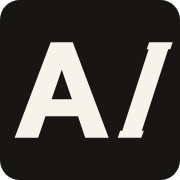
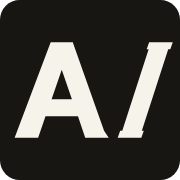
Restore the subtle foot on the AlphaWink mark

diff --git a/zh/about/index.html b/zh/about/index.html
@@ -7,10 +7,10 @@
   <meta name="description" content="我做具身智能数据平台和 AI 基础设施，把多模态机器人数据处理成可校验、可复用的数据集。">
   <meta name="theme-color" content="#f6f3ea">
   <title>关于 / AlphaWink</title>
-  <link rel="icon" href="../../favicon.ico?v=f2848a205f" sizes="16x16 32x32 48x48" type="image/x-icon">
-  <link rel="icon" href="../../favicon-32x32.png?v=fba32d4bbd" sizes="32x32" type="image/png">
-  <link rel="icon" href="../../favicon-96x96.png?v=820867a735" sizes="96x96" type="image/png">
-  <link rel="apple-touch-icon" href="../../apple-touch-icon.png?v=c74aa64415" sizes="180x180">
+  <link rel="icon" href="../../favicon.ico?v=c063c9c2bd" sizes="16x16 32x32 48x48" type="image/x-icon">
+  <link rel="icon" href="../../favicon-32x32.png?v=a73ccec246" sizes="32x32" type="image/png">
+  <link rel="icon" href="../../favicon-96x96.png?v=4ce4235b61" sizes="96x96" type="image/png">
+  <link rel="apple-touch-icon" href="../../apple-touch-icon.png?v=d38a52b22c" sizes="180x180">
   <link rel="stylesheet" href="../../assets/site.css?v=e340d7fcd6">
   <link rel="alternate" hreflang="en" href="../../about/">
 </head>
@@ -18,7 +18,7 @@
   <a class="skip" href="#main">跳到正文</a>
   <header class="bar wrap">
     <a class="brand" href="../../zh/" aria-label="AlphaWink">
-      <img class="brand-mark" src="../../favicon.svg?v=4a9029fe10" alt="" width="28" height="28">
+      <img class="brand-mark" src="../../favicon.svg?v=defe0f83fc" alt="" width="28" height="28">
       <span class="brand-name">AlphaWink</span>
     </a>
     <nav aria-label="网站导航">

diff --git a/about/index.html b/about/index.html
@@ -7,10 +7,10 @@
   <meta name="description" content="I build data platforms for embodied AI, including the workflows that turn multimodal robot data into datasets that teams can validate and reuse.">
   <meta name="theme-color" content="#f6f3ea">
   <title>About / AlphaWink</title>
-  <link rel="icon" href="../favicon.ico?v=f2848a205f" sizes="16x16 32x32 48x48" type="image/x-icon">
-  <link rel="icon" href="../favicon-32x32.png?v=fba32d4bbd" sizes="32x32" type="image/png">
-  <link rel="icon" href="../favicon-96x96.png?v=820867a735" sizes="96x96" type="image/png">
-  <link rel="apple-touch-icon" href="../apple-touch-icon.png?v=c74aa64415" sizes="180x180">
+  <link rel="icon" href="../favicon.ico?v=c063c9c2bd" sizes="16x16 32x32 48x48" type="image/x-icon">
+  <link rel="icon" href="../favicon-32x32.png?v=a73ccec246" sizes="32x32" type="image/png">
+  <link rel="icon" href="../favicon-96x96.png?v=4ce4235b61" sizes="96x96" type="image/png">
+  <link rel="apple-touch-icon" href="../apple-touch-icon.png?v=d38a52b22c" sizes="180x180">
   <link rel="stylesheet" href="../assets/site.css?v=e340d7fcd6">
   <link rel="alternate" hreflang="zh-Hans" href="../zh/about/">
 </head>
@@ -18,7 +18,7 @@
   <a class="skip" href="#main">Skip to content</a>
   <header class="bar wrap">
     <a class="brand" href="../" aria-label="AlphaWink">
-      <img class="brand-mark" src="../favicon.svg?v=4a9029fe10" alt="" width="28" height="28">
+      <img class="brand-mark" src="../favicon.svg?v=defe0f83fc" alt="" width="28" height="28">
       <span class="brand-name">AlphaWink</span>
     </a>
     <nav aria-label="Site navigation">

diff --git a/zh/products/index.html b/zh/products/index.html
@@ -7,10 +7,10 @@
   <meta name="description" content="AlephTX 模拟策略在市场中可能如何成交。Oasis Agent 记录决策过程，并检查执行边界。">
   <meta name="theme-color" content="#f6f3ea">
   <title>产品 / AlphaWink</title>
-  <link rel="icon" href="../../favicon.ico?v=f2848a205f" sizes="16x16 32x32 48x48" type="image/x-icon">
-  <link rel="icon" href="../../favicon-32x32.png?v=fba32d4bbd" sizes="32x32" type="image/png">
-  <link rel="icon" href="../../favicon-96x96.png?v=820867a735" sizes="96x96" type="image/png">
-  <link rel="apple-touch-icon" href="../../apple-touch-icon.png?v=c74aa64415" sizes="180x180">
+  <link rel="icon" href="../../favicon.ico?v=c063c9c2bd" sizes="16x16 32x32 48x48" type="image/x-icon">
+  <link rel="icon" href="../../favicon-32x32.png?v=a73ccec246" sizes="32x32" type="image/png">
+  <link rel="icon" href="../../favicon-96x96.png?v=4ce4235b61" sizes="96x96" type="image/png">
+  <link rel="apple-touch-icon" href="../../apple-touch-icon.png?v=d38a52b22c" sizes="180x180">
   <link rel="stylesheet" href="../../assets/site.css?v=e340d7fcd6">
   <link rel="alternate" hreflang="en" href="../../products/">
 </head>
@@ -18,7 +18,7 @@
   <a class="skip" href="#main">跳到正文</a>
   <header class="bar wrap">
     <a class="brand" href="../../zh/" aria-label="AlphaWink">
-      <img class="brand-mark" src="../../favicon.svg?v=4a9029fe10" alt="" width="28" height="28">
+      <img class="brand-mark" src="../../favicon.svg?v=defe0f83fc" alt="" width="28" height="28">
       <span class="brand-name">AlphaWink</span>
     </a>
     <nav aria-label="网站导航">

diff --git a/products/index.html b/products/index.html
@@ -7,10 +7,10 @@
   <meta name="description" content="AlephTX models how an idea might execute. Oasis Agent records how decisions were made and checks the limits for execution.">
   <meta name="theme-color" content="#f6f3ea">
   <title>Products / AlphaWink</title>
-  <link rel="icon" href="../favicon.ico?v=f2848a205f" sizes="16x16 32x32 48x48" type="image/x-icon">
-  <link rel="icon" href="../favicon-32x32.png?v=fba32d4bbd" sizes="32x32" type="image/png">
-  <link rel="icon" href="../favicon-96x96.png?v=820867a735" sizes="96x96" type="image/png">
-  <link rel="apple-touch-icon" href="../apple-touch-icon.png?v=c74aa64415" sizes="180x180">
+  <link rel="icon" href="../favicon.ico?v=c063c9c2bd" sizes="16x16 32x32 48x48" type="image/x-icon">
+  <link rel="icon" href="../favicon-32x32.png?v=a73ccec246" sizes="32x32" type="image/png">
+  <link rel="icon" href="../favicon-96x96.png?v=4ce4235b61" sizes="96x96" type="image/png">
+  <link rel="apple-touch-icon" href="../apple-touch-icon.png?v=d38a52b22c" sizes="180x180">
   <link rel="stylesheet" href="../assets/site.css?v=e340d7fcd6">
   <link rel="alternate" hreflang="zh-Hans" href="../zh/products/">
 </head>
@@ -18,7 +18,7 @@
   <a class="skip" href="#main">Skip to content</a>
   <header class="bar wrap">
     <a class="brand" href="../" aria-label="AlphaWink">
-      <img class="brand-mark" src="../favicon.svg?v=4a9029fe10" alt="" width="28" height="28">
+      <img class="brand-mark" src="../favicon.svg?v=defe0f83fc" alt="" width="28" height="28">
       <span class="brand-name">AlphaWink</span>
     </a>
     <nav aria-label="Site navigation">

diff --git a/index.html b/index.html
@@ -7,10 +7,10 @@
   <meta name="description" content="We study market opportunities with recorded data and simulated trades.">
   <meta name="theme-color" content="#f6f3ea">
   <title>Home / AlphaWink</title>
-  <link rel="icon" href="./favicon.ico?v=f2848a205f" sizes="16x16 32x32 48x48" type="image/x-icon">
-  <link rel="icon" href="./favicon-32x32.png?v=fba32d4bbd" sizes="32x32" type="image/png">
-  <link rel="icon" href="./favicon-96x96.png?v=820867a735" sizes="96x96" type="image/png">
-  <link rel="apple-touch-icon" href="./apple-touch-icon.png?v=c74aa64415" sizes="180x180">
+  <link rel="icon" href="./favicon.ico?v=c063c9c2bd" sizes="16x16 32x32 48x48" type="image/x-icon">
+  <link rel="icon" href="./favicon-32x32.png?v=a73ccec246" sizes="32x32" type="image/png">
+  <link rel="icon" href="./favicon-96x96.png?v=4ce4235b61" sizes="96x96" type="image/png">
+  <link rel="apple-touch-icon" href="./apple-touch-icon.png?v=d38a52b22c" sizes="180x180">
   <link rel="stylesheet" href="./assets/site.css?v=e340d7fcd6">
   <link rel="alternate" hreflang="zh-Hans" href="./zh/">
 </head>
@@ -18,7 +18,7 @@
   <a class="skip" href="#main">Skip to content</a>
   <header class="bar wrap">
     <a class="brand" href="./" aria-label="AlphaWink">
-      <img class="brand-mark" src="./favicon.svg?v=4a9029fe10" alt="" width="28" height="28">
+      <img class="brand-mark" src="./favicon.svg?v=defe0f83fc" alt="" width="28" height="28">
       <span class="brand-name">AlphaWink</span>
     </a>
     <nav aria-label="Site navigation">

diff --git a/zh/index.html b/zh/index.html
@@ -7,10 +7,10 @@
   <meta name="description" content="从盘口、成交与风险出发，研究市场机会。">
   <meta name="theme-color" content="#f6f3ea">
   <title>首页 / AlphaWink</title>
-  <link rel="icon" href="../favicon.ico?v=f2848a205f" sizes="16x16 32x32 48x48" type="image/x-icon">
-  <link rel="icon" href="../favicon-32x32.png?v=fba32d4bbd" sizes="32x32" type="image/png">
-  <link rel="icon" href="../favicon-96x96.png?v=820867a735" sizes="96x96" type="image/png">
-  <link rel="apple-touch-icon" href="../apple-touch-icon.png?v=c74aa64415" sizes="180x180">
+  <link rel="icon" href="../favicon.ico?v=c063c9c2bd" sizes="16x16 32x32 48x48" type="image/x-icon">
+  <link rel="icon" href="../favicon-32x32.png?v=a73ccec246" sizes="32x32" type="image/png">
+  <link rel="icon" href="../favicon-96x96.png?v=4ce4235b61" sizes="96x96" type="image/png">
+  <link rel="apple-touch-icon" href="../apple-touch-icon.png?v=d38a52b22c" sizes="180x180">
   <link rel="stylesheet" href="../assets/site.css?v=e340d7fcd6">
   <link rel="alternate" hreflang="en" href="../">
 </head>
@@ -18,7 +18,7 @@
   <a class="skip" href="#main">跳到正文</a>
   <header class="bar wrap">
     <a class="brand" href="../zh/" aria-label="AlphaWink">
-      <img class="brand-mark" src="../favicon.svg?v=4a9029fe10" alt="" width="28" height="28">
+      <img class="brand-mark" src="../favicon.svg?v=defe0f83fc" alt="" width="28" height="28">
       <span class="brand-name">AlphaWink</span>
     </a>
     <nav aria-label="网站导航">
